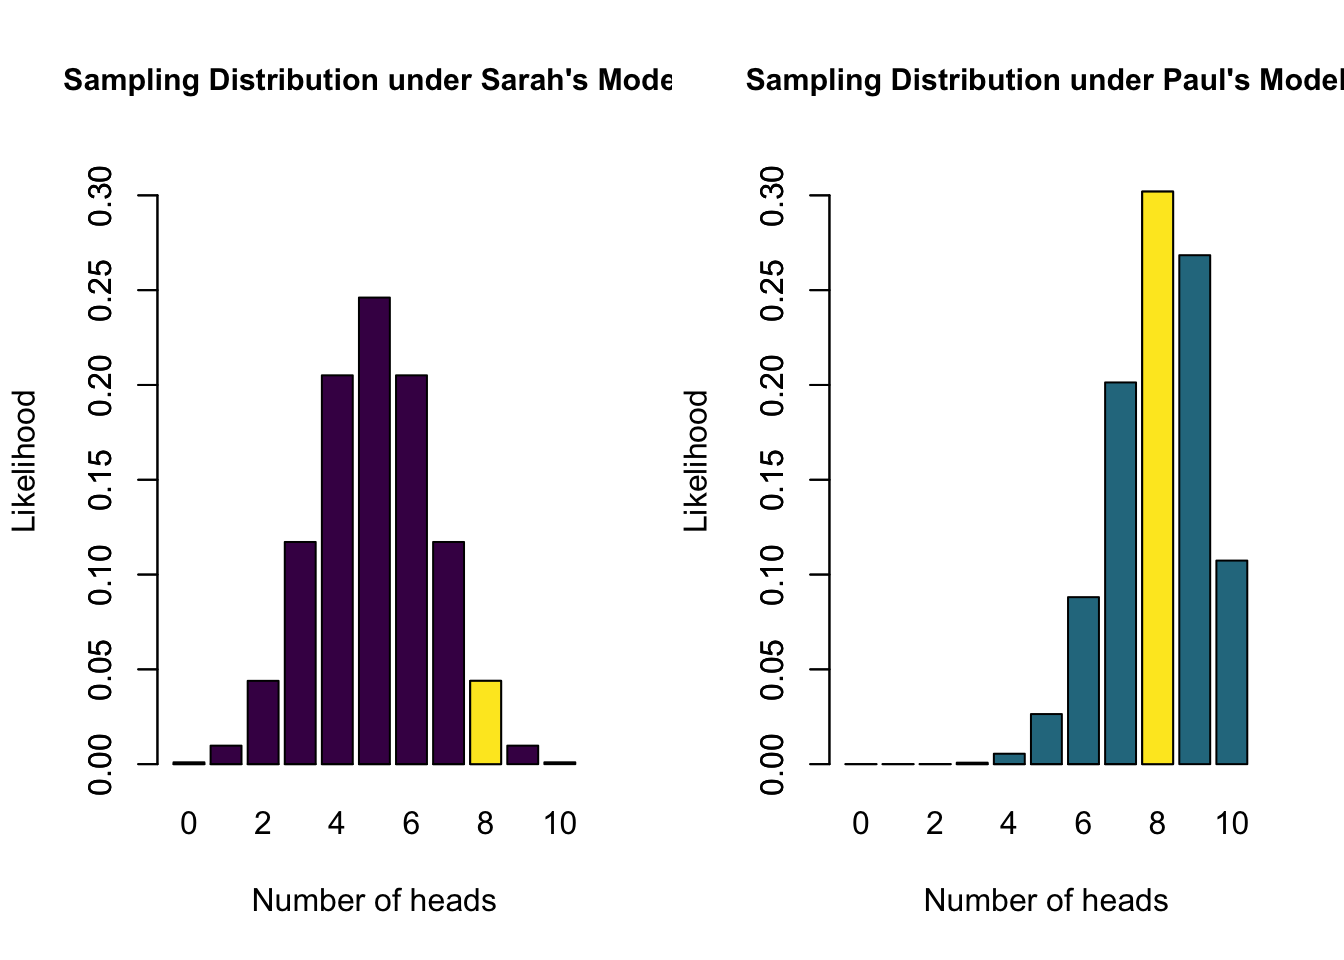
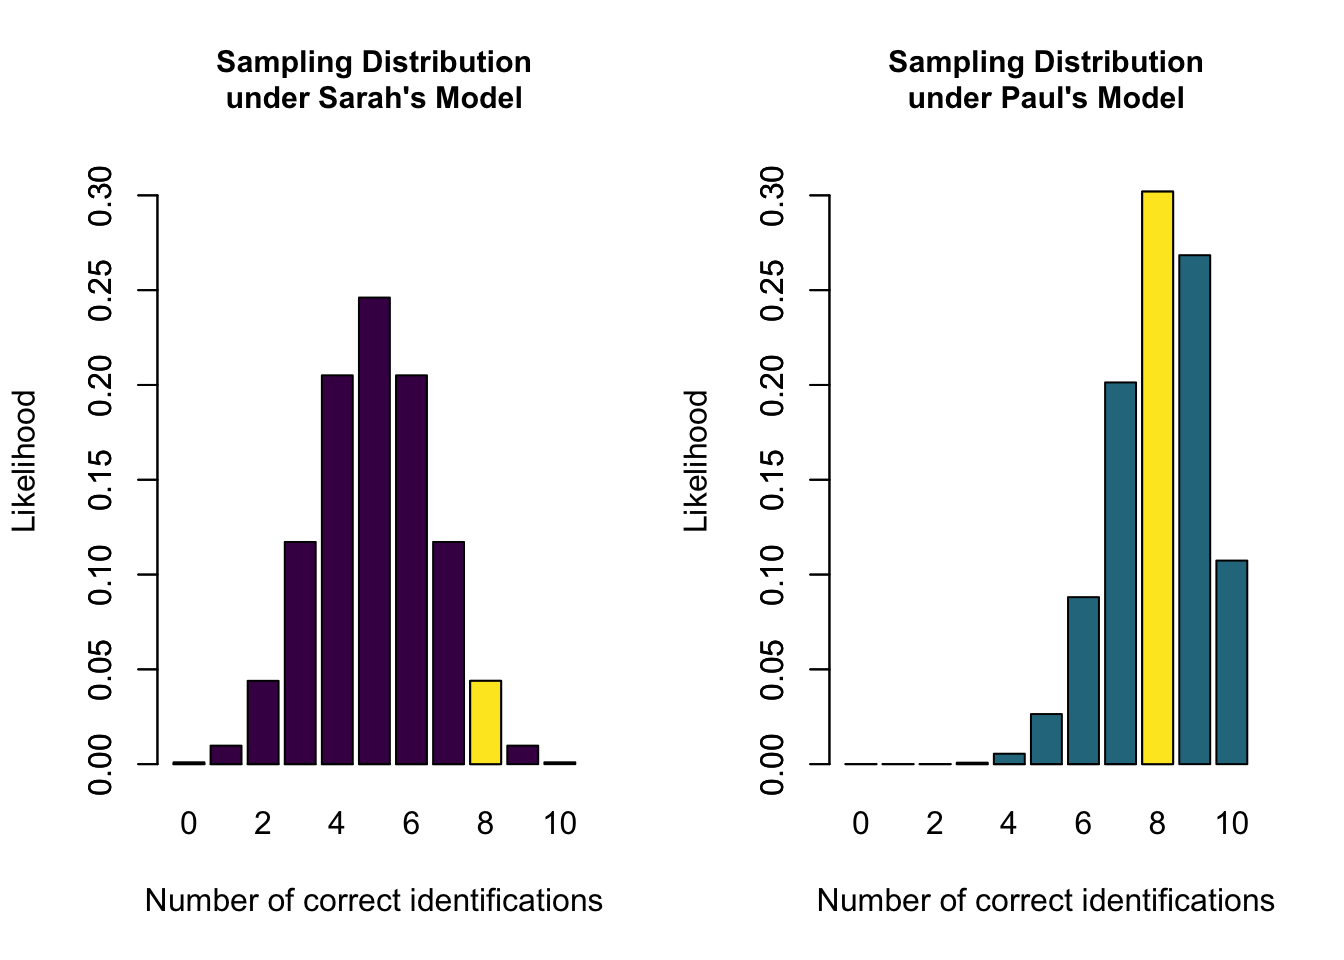
better bayes plots, updating overview

diff --git a/ssr/2026/29. Bayesian ANOVA/29. bayesian anova.html b/ssr/2026/29. Bayesian ANOVA/29. bayesian anova.html
@@ -86,6 +86,9 @@ pre > code.sourceCode > span > a:first-child::before { text-decoration: underlin
   <ul class="collapse">
   <li><a href="#bayesian-parameter-estimation" id="toc-bayesian-parameter-estimation" class="nav-link active" data-scroll-target="#bayesian-parameter-estimation">Bayesian parameter estimation</a>
   <ul class="collapse">
+  <li><a href="#beer-tasting" id="toc-beer-tasting" class="nav-link" data-scroll-target="#beer-tasting">Beer tasting</a></li>
+  <li><a href="#bayesian-updating" id="toc-bayesian-updating" class="nav-link" data-scroll-target="#bayesian-updating">Bayesian updating</a></li>
+  <li><a href="#bayes-rule-for-knowledge-updating" id="toc-bayes-rule-for-knowledge-updating" class="nav-link" data-scroll-target="#bayes-rule-for-knowledge-updating">Bayes’ rule for knowledge updating</a></li>
   <li><a href="#what-is-a-model" id="toc-what-is-a-model" class="nav-link" data-scroll-target="#what-is-a-model">What is a model?</a></li>
   <li><a href="#what-does-a-model-predict" id="toc-what-does-a-model-predict" class="nav-link" data-scroll-target="#what-does-a-model-predict">What does a model predict?</a></li>
   <li><a href="#model-with-multiple-values" id="toc-model-with-multiple-values" class="nav-link" data-scroll-target="#model-with-multiple-values">Model with multiple values</a></li>
@@ -210,6 +213,30 @@ pre > code.sourceCode > span > a:first-child::before { text-decoration: underlin
 <h1 class="section">Bayesian parameter estimation</h1>
 <!-- ## Updating belief -->
 <!-- > Posterior $\propto$ Likelihood $\times$ Prior -->
+<!-- Beer tasting replaces the coin (his call, 2026-11-13). The data stay k = 8 of n = 10, so every
+     number matches the coin example in the reading (booklet ch2-3). In beerTastingData.csv that is
+     a subset of the 57 tasters (e.g., participants 3-12), not the first 10 (those got 7 correct). -->
+<section id="beer-tasting" class="level2">
+<h2 class="anchored" data-anchor-id="beer-tasting">Beer tasting</h2>
+<ul>
+<li>Can people taste the difference between alcoholic and non-alcoholic beer?</li>
+<li><span class="math inline">\(\theta\)</span> is the probability of a correct identification</li>
+</ul>
+<!-- Updating before the formula, the formula right before the slides that unpack it term by term
+     (his call, 2026-11-13). Cycle artwork by Viktor Beekman (credit inside the image), from the
+     booklet's preface. Formula and brace labels from booklet ch3; notation follows this lecture's
+     slide titles (P, data). -->
+</section>
+<section id="bayesian-updating" class="level2">
+<h2 class="anchored" data-anchor-id="bayesian-updating">Bayesian updating</h2>
+<div style="text-align: center;">
+<p><img src="../../images/bayesian-learning-cycle.jpg" alt="Bayesian learning cycle with prior knowledge, prediction, data, prediction error and knowledge update" width="520"></p>
+</div>
+</section>
+<section id="bayes-rule-for-knowledge-updating" class="level2">
+<h2 class="anchored" data-anchor-id="bayes-rule-for-knowledge-updating">Bayes’ rule for knowledge updating</h2>
+<p><span class="math display">\[\large \underbrace{P(\theta \mid data)}_{\text{Posterior beliefs}} = \underbrace{P(\theta)}_{\text{Prior beliefs}} \times \overbrace{\underbrace{\frac{P(data \mid \theta)}{P(data)}}_{\substack{\text{Average prediction} \\ \text{across all } \theta\text{'s}}}}^{\text{Prediction for specific } \theta}\]</span></p>
+</section>
 <section id="what-is-a-model" class="level2">
 <h2 class="anchored" data-anchor-id="what-is-a-model">What is a model?</h2>
 <div class="cell" data-layout-align="center">
@@ -264,8 +291,8 @@ pre > code.sourceCode > span > a:first-child::before { text-decoration: underlin
 </section>
 <section id="now-what-is-the-data-saying" class="level2">
 <h2 class="anchored" data-anchor-id="now-what-is-the-data-saying">Now what is the data saying</h2>
-<section id="ten-coin-tosses" class="level3">
-<h3 class="anchored" data-anchor-id="ten-coin-tosses">Ten coin tosses</h3>
+<section id="ten-tasters" class="level3">
+<h3 class="anchored" data-anchor-id="ten-tasters">Ten tasters</h3>
 <p><span class="math inline">\(\begin{aligned}  k &amp;= 8 \\  n &amp;= 10  \end{aligned}\)</span></p>
 <div class="cell">
 <div class="sourceCode cell-code" id="cb1"><pre class="sourceCode r code-with-copy"><code class="sourceCode r"><span id="cb1-1"><a href="#cb1-1" aria-hidden="true" tabindex="-1"></a>k <span class="ot">=</span> <span class="dv">8</span></span>
@@ -304,7 +331,7 @@ pre > code.sourceCode > span > a:first-child::before { text-decoration: underlin
 </section>
 <section id="posterior" class="level2">
 <h2 class="anchored" data-anchor-id="posterior">Posterior</h2>
-<p>Now we can update Alex’ belief about the possible values of theta based on the data (the likelihood function) we found. Values with a likelihood higher than the average likelihood receive a boost, and others receive a penalty, in plausibility.</p>
+<p>Now we can update Alex’s belief about the possible values of theta based on the data (the likelihood function) we found. Values with a likelihood higher than the average likelihood receive a boost, and others receive a penalty, in plausibility.</p>
 </section>
 <section id="updating-beliefs" class="level2">
 <h2 class="anchored" data-anchor-id="updating-beliefs">Updating beliefs</h2>
@@ -376,8 +403,8 @@ pre > code.sourceCode > span > a:first-child::before { text-decoration: underlin
 </div>
 </div>
 <ul>
-<li>Sarah’s model has a marginal likelihood of 0.0439 for 8 heads</li>
-<li>Alex’s model has a marginal likelihood of 0.0909 for 8 heads</li>
+<li>Sarah’s model has a marginal likelihood of 0.0439 for 8 correct identifications</li>
+<li>Alex’s model has a marginal likelihood of 0.0909 for 8 correct identifications</li>
 <li><span class="math inline">\(\text{BF}_{SA} =\)</span> 0.0439 / 0.0909 = 0.48</li>
 <li>The data are 0.48 times more likely under Sarah’s model than under Alex’s model</li>
 <li>The data are 2.07 times more likely under Alex’s model than under Sarah’s model</li>

diff --git a/ssr/2026/29. Bayesian ANOVA/29. bayesian anova.slide.html b/ssr/2026/29. Bayesian ANOVA/29. bayesian anova.slide.html
@@ -431,6 +431,30 @@ Johnny van Doorn
 <h1>Bayesian parameter estimation</h1>
 <!-- ## Updating belief -->
 <!-- > Posterior $\propto$ Likelihood $\times$ Prior -->
+<!-- Beer tasting replaces the coin (his call, 2026-11-13). The data stay k = 8 of n = 10, so every
+     number matches the coin example in the reading (booklet ch2-3). In beerTastingData.csv that is
+     a subset of the 57 tasters (e.g., participants 3-12), not the first 10 (those got 7 correct). -->
+</section>
+<section id="beer-tasting" class="slide level2">
+<h2>Beer tasting</h2>
+<ul>
+<li>Can people taste the difference between alcoholic and non-alcoholic beer?</li>
+<li><span class="math inline">\(\theta\)</span> is the probability of a correct identification</li>
+</ul>
+<!-- Updating before the formula, the formula right before the slides that unpack it term by term
+     (his call, 2026-11-13). Cycle artwork by Viktor Beekman (credit inside the image), from the
+     booklet's preface. Formula and brace labels from booklet ch3; notation follows this lecture's
+     slide titles (P, data). -->
+</section>
+<section id="bayesian-updating" class="slide level2">
+<h2>Bayesian updating</h2>
+<div style="text-align: center;">
+<p><img src="../../images/bayesian-learning-cycle.jpg" alt="Bayesian learning cycle with prior knowledge, prediction, data, prediction error and knowledge update" width="520"></p>
+</div>
+</section>
+<section id="bayes-rule-for-knowledge-updating" class="slide level2">
+<h2>Bayes’ rule for knowledge updating</h2>
+<p><span class="math display">\[\large \underbrace{P(\theta \mid data)}_{\text{Posterior beliefs}} = \underbrace{P(\theta)}_{\text{Prior beliefs}} \times \overbrace{\underbrace{\frac{P(data \mid \theta)}{P(data)}}_{\substack{\text{Average prediction} \\ \text{across all } \theta\text{'s}}}}^{\text{Prediction for specific } \theta}\]</span></p>
 </section>
 <section id="what-is-a-model" class="slide level2">
 <h2>What is a model?</h2>
@@ -454,7 +478,7 @@ Johnny van Doorn
 </section>
 <section id="now-what-is-the-data-saying" class="slide level2">
 <h2>Now what is the data saying</h2>
-<h3 id="ten-coin-tosses">Ten coin tosses</h3>
+<h3 id="ten-tasters">Ten tasters</h3>
 <p><span class="math inline">\(\begin{aligned}  k &amp;= 8 \\  n &amp;= 10  \end{aligned}\)</span></p>
 <div class="cell">
 <div class="sourceCode cell-code" id="cb1"><pre class="sourceCode numberSource r number-lines code-with-copy"><code class="sourceCode r"><span id="cb1-1"><a href="#cb1-1"></a>k <span class="ot">=</span> <span class="dv">8</span></span>
@@ -476,7 +500,7 @@ Johnny van Doorn
 <img data-src="29.-bayesian-anova_files/figure-revealjs/bpe-marginal-likelihood-1.png" style="width:90.0%" class="r-stretch quarto-figure-center"></section>
 <section id="posterior" class="slide level2">
 <h2>Posterior</h2>
-<p>Now we can update Alex’ belief about the possible values of theta based on the data (the likelihood function) we found. Values with a likelihood higher than the average likelihood receive a boost, and others receive a penalty, in plausibility.</p>
+<p>Now we can update Alex’s belief about the possible values of theta based on the data (the likelihood function) we found. Values with a likelihood higher than the average likelihood receive a boost, and others receive a penalty, in plausibility.</p>
 </section>
 <section id="updating-beliefs" class="slide level2">
 <h2>Updating beliefs</h2>
@@ -526,8 +550,8 @@ Johnny van Doorn
 <h2>Bayes Factor</h2>
 
 <img data-src="29.-bayesian-anova_files/figure-revealjs/bht-bayes-factor-1.png" style="width:90.0%" class="r-stretch quarto-figure-center"><ul>
-<li>Sarah’s model has a marginal likelihood of 0.0439 for 8 heads</li>
-<li>Alex’s model has a marginal likelihood of 0.0909 for 8 heads</li>
+<li>Sarah’s model has a marginal likelihood of 0.0439 for 8 correct identifications</li>
+<li>Alex’s model has a marginal likelihood of 0.0909 for 8 correct identifications</li>
 <li><span class="math inline">\(\text{BF}_{SA} =\)</span> 0.0439 / 0.0909 = 0.48</li>
 <li>The data are 0.48 times more likely under Sarah’s model than under Alex’s model</li>
 <li>The data are 2.07 times more likely under Alex’s model than under Sarah’s model</li>

diff --git a/ssr/overview-ssr.html b/ssr/overview-ssr.html
@@ -257,9 +257,9 @@ background: #C34A5E;
 <tr class="odd">
 <td style="text-align: left;">13 November 2026</td>
 <td style="text-align: left;">29. Bayesian ANOVA</td>
-<td style="text-align: left;">-</td>
-<td style="text-align: left;">-</td>
-<td style="text-align: left;">-</td>
+<td style="text-align: left;"><a href="https://JohnnyDoorn.github.io/teaching-statistics/ssr/2026/29.%20Bayesian%20ANOVA/29.%20bayesian%20anova.html" class="external" target="_blank">link</a></td>
+<td style="text-align: left;"><a href="https://JohnnyDoorn.github.io/teaching-statistics/ssr/2026/29.%20Bayesian%20ANOVA/29.%20bayesian%20anova.slide.html" class="external" target="_blank">link</a></td>
+<td style="text-align: left;"><a href="https://teams.microsoft.com/meet/3118441585744989?p=878mfhx1HSaMCUw4OS" class="external" target="_blank">link</a></td>
 <td style="text-align: left;">-</td>
 </tr>
 </tbody>
